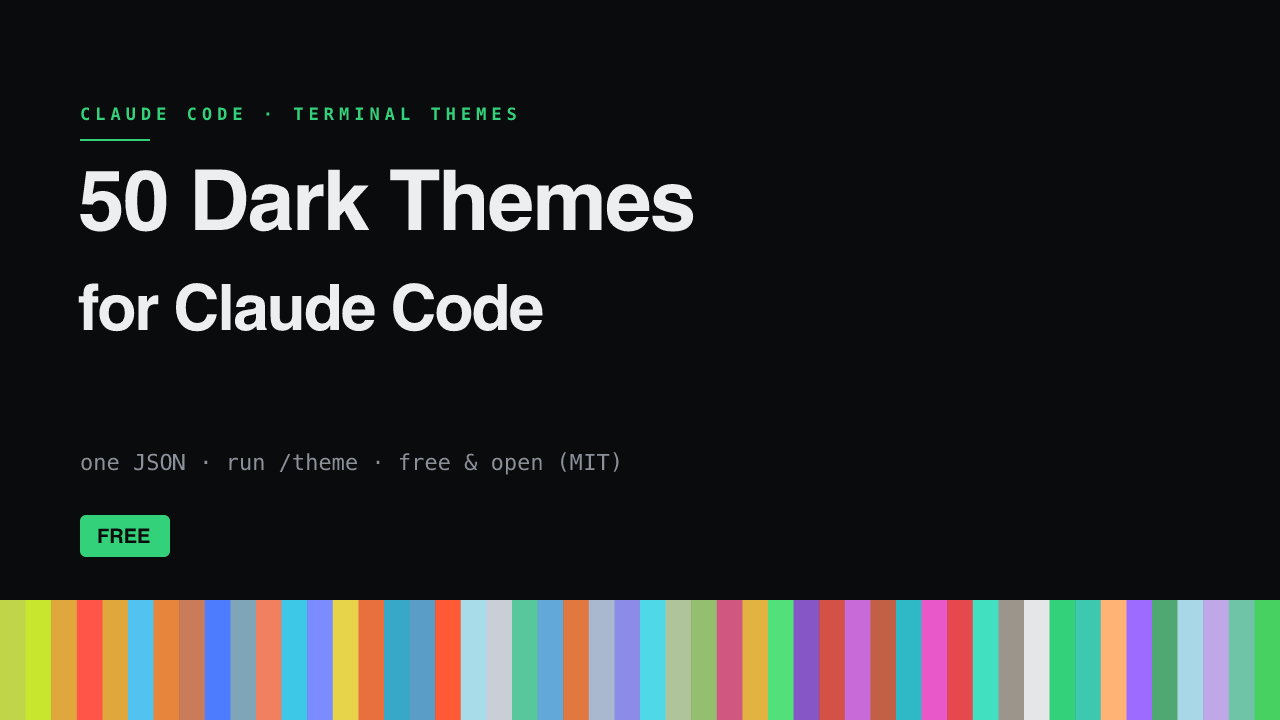
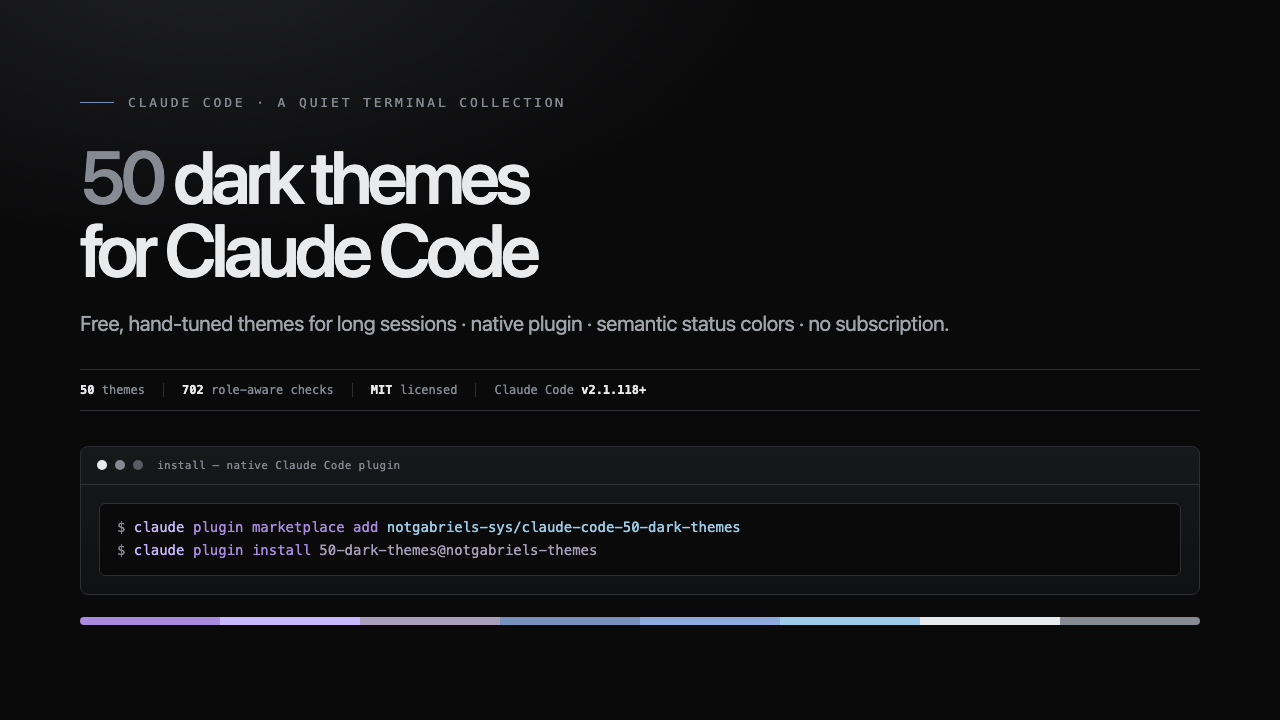
Apply Graphite Semantic across the storefront

diff --git a/claude-code-theme-install-guide.html b/claude-code-theme-install-guide.html
@@ -118,8 +118,11 @@
 <style>
 :root{
   color-scheme:dark;
-  --bg:#0f1011;--panel:#17181a;--panel2:#202124;--hair:#2e2f33;
-  --ink:#e9eaec;--muted:#a0a4ab;--faint:#7a7e85;--accent:#c9cfd6;
+  --bg:#0f1011;--panel:#17181a;--panel2:#1d1e20;--hair:#2e2f33;
+  --ink:#e9eaec;--muted:#a0a4ab;--faint:#858a93;--accent:#c9cfd6;
+  --syntax-purple:#a98ce0;--syntax-light-purple:#c7b8ff;--syntax-grey-purple:#a8a0ba;
+  --syntax-dark-blue:#7890bd;--syntax-blue:#8eaadf;--syntax-light-blue:#9ccce8;--syntax-dark-grey:#858a93;
+  --terminal-surface:#0a0a0b;
   font-family:ui-monospace,"SF Mono",SFMono-Regular,"JetBrains Mono",Menlo,Consolas,monospace;
 }
 *{box-sizing:border-box}
@@ -138,10 +141,11 @@ h1{font-size:clamp(40px,7.3vw,78px);letter-spacing:-.065em;line-height:.94;margi
 .secondary{background:rgba(255,255,255,.035);border:1px solid var(--hair);color:var(--ink)}
 .grid{display:grid;grid-template-columns:repeat(3,minmax(0,1fr));gap:14px;margin:18px 0}.panel{padding:18px}.panel b{display:block;margin-bottom:5px}.muted{color:var(--muted)}
 .article{max-width:860px;margin:34px auto 0}.section{margin-top:38px}.section h2{font-size:clamp(27px,4vw,38px);line-height:1.08;letter-spacing:-.045em;margin:0 0 14px}.section h3{font-size:21px;letter-spacing:-.025em;margin:24px 0 8px}
-.section p{color:var(--muted)}.section strong{color:var(--ink)}code{color:var(--ink);background:#0b0c0d;border:1px solid var(--hair);border-radius:5px;padding:1px 5px}
+.section p{color:var(--muted)}.section strong{color:var(--ink)}code{color:var(--syntax-light-blue);background:var(--terminal-surface);border:1px solid var(--hair);border-radius:5px;padding:1px 5px}
 .steps{display:grid;gap:12px;margin-top:16px}.step{display:grid;grid-template-columns:48px 1fr;gap:14px;padding:18px}.num{width:38px;height:38px;border-radius:999px;display:grid;place-items:center;background:rgba(201,207,214,.12);border:1px solid rgba(201,207,214,.32);color:var(--accent);font-weight:820}
 .code-panel{overflow:hidden;margin:18px 0}.code-head{display:flex;justify-content:space-between;gap:12px;padding:11px 15px;border-bottom:1px solid var(--hair);font-size:12px;color:var(--faint)}
-pre{margin:0;padding:18px;overflow:auto;white-space:pre;color:#d7dadd;background:#0b0c0d;font:13px/1.65 ui-monospace,SFMono-Regular,Menlo,Consolas,monospace}
+pre{margin:0;padding:18px;overflow:auto;white-space:pre;color:var(--ink);background:var(--terminal-surface);font:13px/1.65 ui-monospace,SFMono-Regular,Menlo,Consolas,monospace}
+.syntax-command{color:var(--syntax-light-purple)}.syntax-subcommand{color:var(--syntax-purple)}.syntax-argument{color:var(--syntax-light-blue)}.syntax-value{color:var(--syntax-grey-purple)}.syntax-option{color:var(--syntax-dark-blue)}
 .callout{padding:22px;margin-top:28px;background:linear-gradient(180deg,rgba(201,207,214,.08),rgba(255,255,255,.025))}.callout p:last-child{margin-bottom:0}
 .table-wrap{overflow:auto;margin-top:16px}table{width:100%;border-collapse:collapse;min-width:620px}th,td{text-align:left;padding:13px 15px;border-bottom:1px solid var(--hair);vertical-align:top}th{font-size:12px;text-transform:uppercase;letter-spacing:.12em;color:var(--faint)}td{color:var(--muted)}td:first-child{color:var(--ink);font-weight:700}
 .final{margin-top:42px;padding:26px}.final h2{margin-top:0}.final p{color:var(--muted)}
@@ -187,8 +191,8 @@ footer{margin-top:42px;padding-top:22px;border-top:1px solid var(--hair)}
           <p>This route keeps the pack connected to Claude Code’s plugin system and avoids hand-copying fifty JSON files.</p>
           <div class="code-panel" aria-label="Native Claude Code theme plugin install command">
             <div class="code-head"><span>Terminal</span><span>Claude Code v2.1.118+</span></div>
-<pre>claude plugin marketplace add notgabriels-sys/claude-code-50-dark-themes
-claude plugin install 50-dark-themes@notgabriels-themes</pre>
+<pre><span class="syntax-command">claude</span> <span class="syntax-subcommand">plugin marketplace add</span> <span class="syntax-argument">notgabriels-sys/claude-code-50-dark-themes</span>
+<span class="syntax-command">claude</span> <span class="syntax-subcommand">plugin install</span> <span class="syntax-value">50-dark-themes@notgabriels-themes</span></pre>
           </div>
           <div class="steps">
             <article class="step"><span class="num">01</span><div><h3>Add the marketplace.</h3><p>Run the marketplace command once. It tells Claude Code where the theme plugin lives.</p></div></article>
@@ -202,8 +206,8 @@ claude plugin install 50-dark-themes@notgabriels-themes</pre>
           <p>Use this route if you want to inspect or modify the files yourself, or if the plugin flow is unavailable in your setup.</p>
           <div class="code-panel" aria-label="Manual Claude Code theme install command">
             <div class="code-head"><span>Terminal</span><span>Manual JSON copy</span></div>
-<pre>mkdir -p ~/.claude/themes
-cp *.json ~/.claude/themes/</pre>
+<pre><span class="syntax-command">mkdir</span> <span class="syntax-option">-p</span> <span class="syntax-argument">~/.claude/themes</span>
+<span class="syntax-command">cp</span> <span class="syntax-value">*.json</span> <span class="syntax-argument">~/.claude/themes/</span></pre>
           </div>
           <p>After copying, run <code>/theme</code> in Claude Code. If the directory did not exist before, restart Claude Code once so it discovers the new theme folder.</p>
           <div class="callout">

diff --git a/assets/social-preview.html b/assets/social-preview.html
@@ -1,0 +1,58 @@
+<!doctype html>
+<html lang="en">
+<head>
+<meta charset="utf-8">
+<meta name="viewport" content="width=1280,initial-scale=1">
+<title>50 Dark Themes for Claude Code — social preview source</title>
+<style>
+  :root{
+    color-scheme:dark;
+    --terminal-surface:#0a0a0b;--ground:#0f1011;--raised:#17181a;--hair:#2e2f33;
+    --ink:#e9eaec;--muted:#a0a4ab;--syntax-dark-grey:#858a93;
+    --syntax-purple:#a98ce0;--syntax-light-purple:#c7b8ff;--syntax-grey-purple:#a8a0ba;
+    --syntax-dark-blue:#7890bd;--syntax-blue:#8eaadf;--syntax-light-blue:#9ccce8;
+    font-family:ui-monospace,"SF Mono",SFMono-Regular,Menlo,Consolas,monospace;
+  }
+  *{box-sizing:border-box}
+  html,body{width:1280px;height:720px;margin:0;overflow:hidden}
+  body{
+    display:grid;place-items:center;background:
+      radial-gradient(820px 430px at 16% -8%,rgba(46,47,51,.62),rgba(46,47,51,0) 70%),
+      var(--terminal-surface);color:var(--ink);
+  }
+  main{width:1120px}
+  .kicker{display:flex;align-items:center;gap:14px;margin:0 0 30px;color:var(--syntax-dark-grey);font-size:13px;letter-spacing:.22em;text-transform:uppercase}
+  .kicker::before{content:"";width:34px;height:1px;background:var(--syntax-dark-blue)}
+  h1{margin:0;font:550 74px/.98 ui-sans-serif,-apple-system,BlinkMacSystemFont,"Segoe UI",sans-serif;letter-spacing:-.06em}
+  h1 span{color:var(--syntax-dark-grey)}
+  .lead{margin:23px 0 0;color:var(--muted);font:21px/1.5 ui-sans-serif,-apple-system,BlinkMacSystemFont,"Segoe UI",sans-serif;letter-spacing:-.015em}
+  .meta{display:flex;gap:0;margin:29px 0 35px;padding:13px 0;border-top:1px solid var(--hair);border-bottom:1px solid var(--hair);color:var(--syntax-dark-grey);font-size:12px}
+  .meta span{padding-right:18px;margin-right:18px;border-right:1px solid var(--hair)}
+  .meta span:last-child{border:0}.meta b{color:var(--ink);font-weight:650}
+  .terminal{border:1px solid var(--hair);border-radius:8px;background:linear-gradient(180deg,var(--raised),#101112);overflow:hidden}
+  .bar{display:flex;align-items:center;gap:8px;padding:12px 16px;border-bottom:1px solid var(--hair);color:var(--syntax-dark-grey);font-size:11px;letter-spacing:.03em}
+  .dot{width:10px;height:10px;border-radius:50%;background:var(--ink)}
+  .dot:nth-child(2){background:var(--syntax-dark-grey)}.dot:nth-child(3){background:#585c62}
+  .label{margin-left:6px}
+  .command{display:grid;gap:2px;margin:18px;padding:13px 17px;border:1px solid var(--hair);border-radius:6px;background:var(--terminal-surface);font-size:14px;line-height:1.55}
+  .command .line{white-space:nowrap}
+  .prompt{color:var(--syntax-dark-grey)}.cmd{color:var(--syntax-light-purple)}.sub{color:var(--syntax-purple)}.arg{color:var(--syntax-light-blue)}.op{color:var(--syntax-dark-grey)}.value{color:var(--syntax-grey-purple)}
+  .roles{display:grid;grid-template-columns:repeat(8,1fr);height:8px;margin-top:22px;overflow:hidden;border-radius:4px}
+  .roles i:nth-child(1){background:var(--syntax-purple)}.roles i:nth-child(2){background:var(--syntax-light-purple)}.roles i:nth-child(3){background:var(--syntax-grey-purple)}.roles i:nth-child(4){background:var(--syntax-dark-blue)}
+  .roles i:nth-child(5){background:var(--syntax-blue)}.roles i:nth-child(6){background:var(--syntax-light-blue)}.roles i:nth-child(7){background:var(--ink)}.roles i:nth-child(8){background:var(--syntax-dark-grey)}
+</style>
+</head>
+<body>
+<main>
+  <p class="kicker">Claude Code · a quiet terminal collection</p>
+  <h1><span>50</span> dark themes<br>for Claude Code</h1>
+  <p class="lead">Free, hand-tuned themes for long sessions · native plugin · semantic status colors · no subscription.</p>
+  <div class="meta"><span><b>50</b> themes</span><span><b>702</b> role-aware checks</span><span><b>MIT</b> licensed</span><span>Claude Code <b>v2.1.118+</b></span></div>
+  <section class="terminal" aria-label="Color-coded install command preview">
+    <div class="bar"><i class="dot"></i><i class="dot"></i><i class="dot"></i><span class="label">install — native Claude Code plugin</span></div>
+    <div class="command"><span class="line"><span class="prompt">$ </span><span class="cmd">claude</span> <span class="sub">plugin marketplace add</span> <span class="arg">notgabriels-sys/claude-code-50-dark-themes</span></span><span class="line"><span class="prompt">$ </span><span class="cmd">claude</span> <span class="sub">plugin install</span> <span class="value">50-dark-themes@notgabriels-themes</span></span></div>
+  </section>
+  <div class="roles" aria-hidden="true"><i></i><i></i><i></i><i></i><i></i><i></i><i></i><i></i></div>
+</main>
+</body>
+</html>

diff --git a/index.html b/index.html
@@ -76,6 +76,15 @@
     --faint:#81858d;
     --accent:#c9cfd6;
     --accent-dim:#585c62;
+    /* Graphite Semantic — role colors stay quiet, but never ambiguous. */
+    --syntax-purple:#a98ce0;
+    --syntax-light-purple:#c7b8ff;
+    --syntax-grey-purple:#a8a0ba;
+    --syntax-dark-blue:#7890bd;
+    --syntax-blue:#8eaadf;
+    --syntax-light-blue:#9ccce8;
+    --syntax-dark-grey:#858a93;
+    --terminal-surface:#0a0a0b;
     --radius:12px;
     --mono: ui-monospace,"SF Mono",SFMono-Regular,"JetBrains Mono","Menlo",Consolas,monospace;
     --display: ui-sans-serif,-apple-system,BlinkMacSystemFont,"Segoe UI",sans-serif;
@@ -168,17 +177,22 @@
   .step .i{color:var(--accent);font-size:10px;letter-spacing:.08em;padding-top:4px}
   .step p{margin:0;color:var(--mute);font-family:var(--display);font-size:13.5px;line-height:1.55}
   .step code, code.inline{
-    color:var(--ink);background:#0c0c0d;border:1px solid var(--hair);
+    color:var(--syntax-light-blue);background:#0c0c0d;border:1px solid var(--hair);
     border-radius:6px;padding:2px 6px;font-size:12.5px;
   }
   .cmd{
     display:flex;align-items:center;justify-content:space-between;gap:12px;
     margin:2px 22px 22px;padding:14px 16px;
-    background:#0a0a0b;border:1px solid var(--hair);border-radius:6px;
+    background:var(--terminal-surface);border:1px solid var(--hair);border-radius:6px;
     color:var(--ink);font-size:12.5px;line-height:1.5;overflow-x:auto;
   }
   .cmd>span:first-child{min-width:0;overflow-wrap:anywhere}
-  .cmd .prompt{color:var(--accent-dim);user-select:none}
+  .cmd .prompt{color:var(--syntax-dark-grey);user-select:none}
+  .cmd .syntax-command{color:var(--syntax-light-purple)}
+  .cmd .syntax-subcommand{color:var(--syntax-purple)}
+  .cmd .syntax-argument{color:var(--syntax-light-blue)}
+  .cmd .syntax-value{color:var(--syntax-grey-purple)}
+  .cmd .syntax-operator{color:var(--syntax-dark-grey)}
   .copy{
     flex:none;cursor:pointer;border:1px solid var(--hair);background:transparent;
     color:var(--mute);font-family:var(--mono);font-size:11px;letter-spacing:.08em;
@@ -212,7 +226,7 @@
   .finder-head{display:flex;align-items:flex-start;justify-content:space-between;gap:24px}
   .finder-label{margin:0 0 4px;color:var(--ink);font-family:var(--display);font-size:15px;font-weight:600;letter-spacing:-.01em}
   .finder-copy{margin:0;color:var(--mute);font-family:var(--display);font-size:13px;line-height:1.5}
-  .finder-copy kbd,.finder-search kbd{color:var(--ink);border:1px solid var(--hair);border-bottom-color:var(--accent-dim);border-radius:4px;padding:1px 5px;font-family:var(--mono);font-size:10px}
+  .finder-copy kbd,.finder-search kbd{color:var(--syntax-light-purple);border:1px solid var(--hair);border-bottom-color:var(--accent-dim);border-radius:4px;padding:1px 5px;font-family:var(--mono);font-size:10px}
   .finder-controls{display:flex;align-items:center;gap:24px;margin-top:17px}
   .finder-search{display:flex;align-items:center;gap:10px;flex:0 1 330px;min-height:44px;border-bottom:1px solid var(--hair);color:var(--faint);font-size:10px;letter-spacing:.08em;text-transform:uppercase}
   .finder-search:focus-within{border-color:var(--accent-dim)}
@@ -405,7 +419,7 @@
         <div class="step"><span class="i">03</span><p>Run <code>/theme</code> and pick one. Press <code>Ctrl+E</code> if you want an editable copy</p></div>
       </div>
       <div class="cmd">
-        <span><span class="prompt">$ </span>claude plugin marketplace add notgabriels-sys/claude-code-50-dark-themes &amp;&amp; claude plugin install 50-dark-themes@notgabriels-themes</span>
+        <span><span class="prompt">$ </span><span class="syntax-command">claude</span> <span class="syntax-subcommand">plugin marketplace add</span> <span class="syntax-argument">notgabriels-sys/claude-code-50-dark-themes</span> <span class="syntax-operator">&amp;&amp;</span> <span class="syntax-command">claude</span> <span class="syntax-subcommand">plugin install</span> <span class="syntax-value">50-dark-themes@notgabriels-themes</span></span>
         <button class="copy" id="copyBtn" aria-label="Copy install command">Copy</button>
         <span class="sr-only" id="copyStatus" aria-live="polite"></span>
       </div>

diff --git a/semantic-terminal-colors.html b/semantic-terminal-colors.html
@@ -87,8 +87,11 @@
 <style>
 :root{
   color-scheme:dark;
-  --bg:#0f1011;--panel:#17181a;--panel2:#202124;--hair:#2e2f33;
-  --ink:#e9eaec;--muted:#a0a4ab;--faint:#7a7e85;--accent:#c9cfd6;
+  --bg:#0f1011;--panel:#17181a;--panel2:#1d1e20;--hair:#2e2f33;
+  --ink:#e9eaec;--muted:#a0a4ab;--faint:#858a93;--accent:#c9cfd6;
+  --syntax-purple:#a98ce0;--syntax-light-purple:#c7b8ff;--syntax-grey-purple:#a8a0ba;
+  --syntax-dark-blue:#7890bd;--syntax-blue:#8eaadf;--syntax-light-blue:#9ccce8;--syntax-dark-grey:#858a93;
+  --terminal-surface:#0a0a0b;
   --green:#8fd6a3;--yellow:#e5c07b;--red:#e38b8b;
   font-family:ui-monospace,"SF Mono",SFMono-Regular,"JetBrains Mono",Menlo,Consolas,monospace;
 }
@@ -108,11 +111,11 @@ h1{font-size:clamp(40px,7.3vw,78px);letter-spacing:-.065em;line-height:.94;margi
 .secondary{background:rgba(255,255,255,.035);border:1px solid var(--hair);color:var(--ink)}
 .grid{display:grid;grid-template-columns:repeat(3,minmax(0,1fr));gap:14px;margin:18px 0}.panel{padding:18px}.panel b{display:block;margin-bottom:5px}.muted{color:var(--muted)}
 .article{max-width:860px;margin:34px auto 0}.section{margin-top:38px}.section h2{font-size:clamp(27px,4vw,38px);line-height:1.08;letter-spacing:-.045em;margin:0 0 14px}.section h3{font-size:21px;letter-spacing:-.025em;margin:24px 0 8px}
-.section p{color:var(--muted)}.section strong{color:var(--ink)}code{color:var(--ink);background:#0b0c0d;border:1px solid var(--hair);border-radius:5px;padding:1px 5px}pre code{border:0;padding:0}ul{padding-left:21px;color:var(--muted)}li{margin:7px 0}
+.section p{color:var(--muted)}.section strong{color:var(--ink)}code{color:var(--syntax-light-blue);background:var(--terminal-surface);border:1px solid var(--hair);border-radius:5px;padding:1px 5px}pre code{border:0;padding:0}ul{padding-left:21px;color:var(--muted)}li{margin:7px 0}
 .callout{padding:22px;margin-top:28px;background:linear-gradient(180deg,rgba(201,207,214,.08),rgba(255,255,255,.025))}.callout p:last-child{margin-bottom:0}
 .code-panel{overflow:hidden;margin:18px 0}.code-head{display:flex;justify-content:space-between;gap:12px;padding:11px 15px;border-bottom:1px solid var(--hair);font-size:12px;color:var(--faint)}
-pre{margin:0;padding:18px;overflow:auto;white-space:pre;color:#d7dadd;background:#0b0c0d;font:13px/1.65 ui-monospace,SFMono-Regular,Menlo,Consolas,monospace}
-.key{color:#b9c7ff}.string{color:#b7d7ba}.comment{color:#747981}
+pre{margin:0;padding:18px;overflow:auto;white-space:pre;color:var(--ink);background:var(--terminal-surface);font:13px/1.65 ui-monospace,SFMono-Regular,Menlo,Consolas,monospace}
+.key{color:var(--syntax-dark-blue)}.string{color:var(--syntax-grey-purple)}.comment{color:var(--syntax-dark-grey)}
 .table-wrap{overflow:auto;margin-top:16px}table{width:100%;border-collapse:collapse;min-width:620px}th,td{text-align:left;padding:13px 15px;border-bottom:1px solid var(--hair);vertical-align:top}th{font-size:12px;text-transform:uppercase;letter-spacing:.12em;color:var(--faint)}td{color:var(--muted)}td:first-child{color:var(--ink);font-weight:700}
 .states{display:flex;gap:8px;flex-wrap:wrap;margin-top:16px}.state{border:1px solid var(--hair);border-radius:999px;padding:6px 10px;font-size:12px}.success{color:var(--green)}.warning{color:var(--yellow)}.error{color:var(--red)}
 .faq{display:grid;grid-template-columns:repeat(3,minmax(0,1fr));gap:12px;margin-top:16px}.faq .panel p{margin-bottom:0}

diff --git a/impressum.html b/impressum.html
@@ -8,8 +8,8 @@
   <link rel="icon" type="image/svg+xml" href="favicon.svg">
   <title>Impressum — Gabs Utilities</title>
   <style>
-    :root{color-scheme:dark;--bg:#080b0e;--panel:#0e1318;--line:#263039;--text:#e8edf1;--muted:#a8b2ba;--link:#61d9f3}
-    *{box-sizing:border-box}body{margin:0;background:var(--bg);color:var(--text);font:16px/1.65 ui-monospace,SFMono-Regular,Menlo,Monaco,Consolas,monospace}.wrap{width:min(720px,calc(100% - 32px));margin:0 auto;padding:56px 0 80px}a{color:var(--link)}h1{font:700 clamp(36px,8vw,64px)/1 system-ui,sans-serif;letter-spacing:-.04em;margin:28px 0 38px}.panel{background:var(--panel);border:1px solid var(--line);padding:26px;margin:18px 0}.panel h2{font:700 18px/1.3 system-ui,sans-serif;margin:0 0 14px}.panel p{margin:0;color:var(--muted)}.warning{border-color:#a35f31;color:#ffd3b4}nav{font-size:13px}address{font-style:normal}
+    :root{color-scheme:dark;--bg:#0f1011;--panel:#17181a;--line:#2e2f33;--text:#e9eaec;--muted:#a0a4ab;--link:#9ccce8;--warning:#c7b8ff}
+    *{box-sizing:border-box}body{margin:0;background:var(--bg);color:var(--text);font:16px/1.65 ui-monospace,SFMono-Regular,Menlo,Monaco,Consolas,monospace}.wrap{width:min(720px,calc(100% - 32px));margin:0 auto;padding:56px 0 80px}a{color:var(--link)}h1{font:700 clamp(36px,8vw,64px)/1 system-ui,sans-serif;letter-spacing:-.04em;margin:28px 0 38px}.panel{background:var(--panel);border:1px solid var(--line);padding:26px;margin:18px 0}.panel h2{font:700 18px/1.3 system-ui,sans-serif;margin:0 0 14px}.panel p{margin:0;color:var(--muted)}.warning{border-color:var(--warning);color:var(--warning)}nav{font-size:13px}address{font-style:normal}
   </style>
 </head>
 <body>
